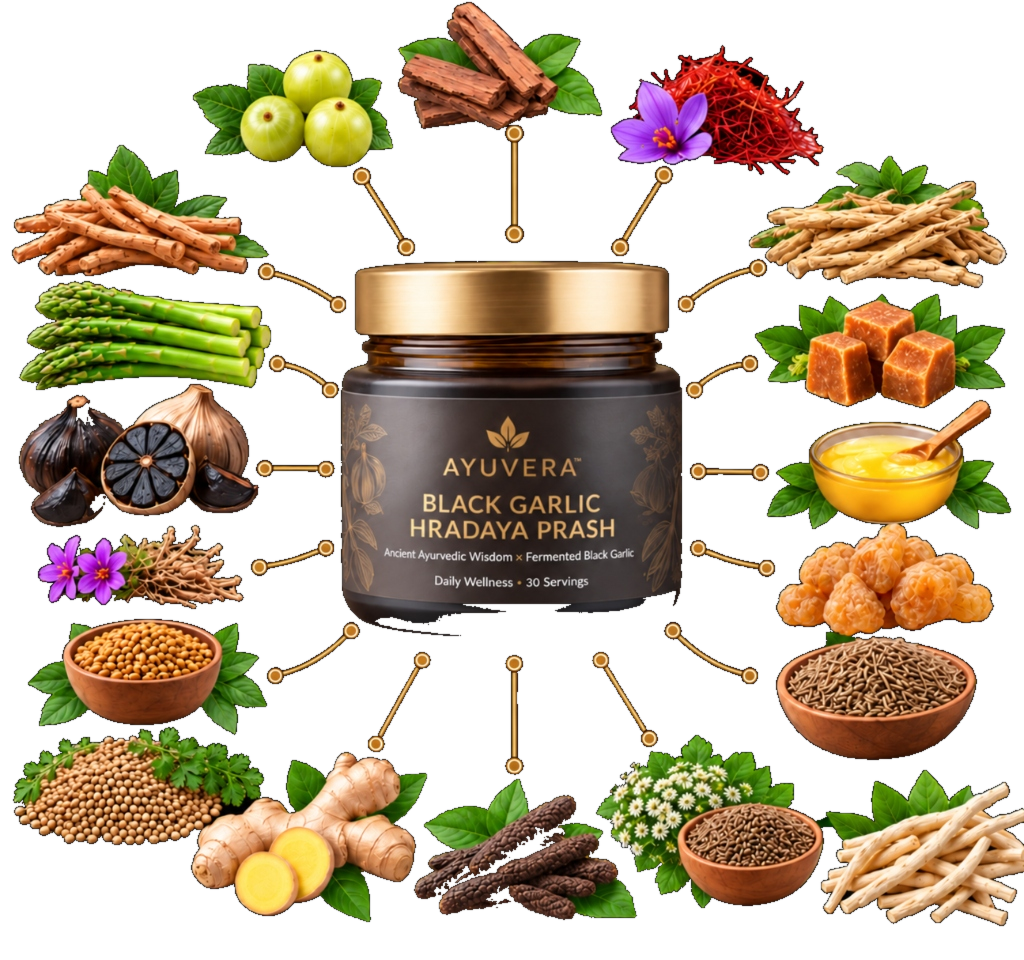
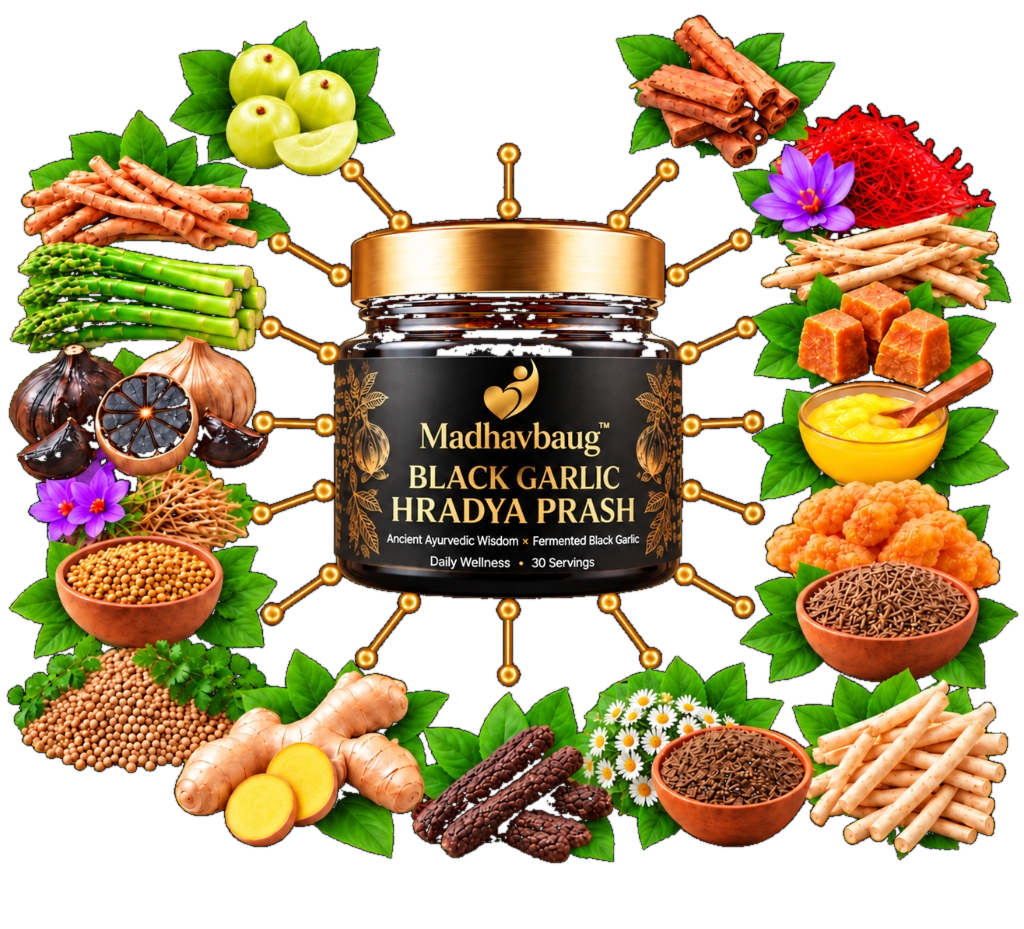
added

diff --git a/index.html b/index.html
@@ -3,8 +3,8 @@
 <head>
   <meta charset="UTF-8">
   <meta name="viewport" content="width=device-width, initial-scale=1.0">
-  <title>Ayuvera Hradaya Prash — Ayurvedic Heart Care & Natural Cholesterol Support</title>
-  <meta name="description" content="Ayuvera Hradaya Prash: दिल की मजबूती, कोलेस्ट्रॉल और ब्लड प्रेशर संतुलन के लिए 100% प्राकृतिक आयुर्वेदिक फॉर्मूलेशन। Fermented Black Garlic और अर्जुन छाल के साथ सम्पूर्ण Heart Care Rasayana।">
+  <title>Madhavbaug Hradaya Prash — Ayurvedic Heart Care & Natural Cholesterol Support</title>
+  <meta name="description" content="Madhavbaug Hradaya Prash: दिल की मजबूती, कोलेस्ट्रॉल और ब्लड प्रेशर संतुलन के लिए 100% प्राकृतिक आयुर्वेदिक फॉर्मूलेशन। Fermented Black Garlic और अर्जुन छाल के साथ सम्पूर्ण Heart Care Rasayana।">
   <link rel="stylesheet" href="assets/css/style.css">
 </head>
 <body>
@@ -27,8 +27,8 @@
   <!-- Navigation Bar -->
   <nav class="navbar" id="navbar">
     <div class="container nav-container">
-      <a href="#" class="brand-logo" aria-label="Ayuvera Heart Care">
-        <img src="assets/images/logo.png" alt="AYUVERA" class="brand-logo-img">
+      <a href="#" class="brand-logo" aria-label="Madhavbaug Heart Care">
+        <img src="assets/images/madhavbaug_logo.png" alt="MADHAVBAUG" class="brand-logo-img">
       </a>
 
       <ul class="nav-links">
@@ -53,13 +53,13 @@
         <div class="gallery-wrapper">
           <div class="gallery-thumbnails" id="galleryThumbs">
             <div class="thumb-item active" data-slide="0">
-              <img src="assets/images/hero_jar.jpg" alt="Ayuvera Hradaya Prash for Heart Care Front">
+              <img src="assets/images/madhavbaug_hero.jpg" alt="Madhavbaug Hradaya Prash for Heart Care Front">
             </div>
             <div class="thumb-item" data-slide="1">
-              <img src="assets/images/product_spoon_texture.jpg" alt="Ayuvera Hradaya Prash 100% Natural Ayurvedic Care Spoon Texture">
+              <img src="assets/images/madhavbaug_texture_spoon.jpg" alt="Madhavbaug Hradaya Prash 100% Natural Ayurvedic Care Spoon Texture">
             </div>
             <div class="thumb-item" data-slide="2">
-              <img src="assets/images/product_kitchen_table.jpg" alt="Ayuvera Hradaya Prash Jar with Amla & Black Garlic">
+              <img src="assets/images/madhavbaug_product_jar.jpg" alt="Madhavbaug Hradaya Prash Jar with Amla & Black Garlic">
             </div>
           </div>
 
@@ -69,13 +69,13 @@
             <div class="gallery-slider-viewport" id="galleryViewport">
               <div class="gallery-slider-track" id="galleryTrack">
                 <div class="gallery-slide active" data-slide="0">
-                  <img src="assets/images/hero_jar.jpg" alt="Ayuvera Hradaya Prash for Heart Care Front" loading="eager">
+                  <img src="assets/images/madhavbaug_hero.jpg" alt="Madhavbaug Hradaya Prash for Heart Care Front" loading="eager">
                 </div>
                 <div class="gallery-slide" data-slide="1">
-                  <img src="assets/images/product_spoon_texture.jpg" alt="Ayuvera Hradaya Prash 100% Natural Ayurvedic Care Spoon Texture" loading="eager">
+                  <img src="assets/images/madhavbaug_texture_spoon.jpg" alt="Madhavbaug Hradaya Prash 100% Natural Ayurvedic Care Spoon Texture" loading="eager">
                 </div>
                 <div class="gallery-slide" data-slide="2">
-                  <img src="assets/images/product_kitchen_table.jpg" alt="Ayuvera Hradaya Prash Jar with Amla & Black Garlic" loading="eager">
+                  <img src="assets/images/madhavbaug_product_jar.jpg" alt="Madhavbaug Hradaya Prash Jar with Amla & Black Garlic" loading="eager">
                 </div>
               </div>
             </div>
@@ -113,7 +113,7 @@
             <span class="product-servings-badge">30 दिन की खुराक</span>
           </div>
 
-          <h1 class="product-main-title">Ayuvera Hradaya Prash</h1>
+          <h1 class="product-main-title">Madhavbaug Hradaya Prash</h1>
           <p class="product-subheadline">Ayurvedic Cardiac Rasayana for Healthy Heart, Cholesterol & Blood Pressure Balance</p>
 
           <!-- Free 24 Carat Gold Spoon Offer Highlight -->
@@ -144,18 +144,18 @@
               <span style="color: var(--antique-gold); font-weight: 600;">30 दिन प्रति जार</span>
             </div>
             <div class="bundle-options-grid">
-              <div class="bundle-card active" data-price="1899" data-original="2499" data-discount="24% की बचत" data-title="1 जार (Ayuvera Hradaya Prash • 30 दिन की खुराक)">
+              <div class="bundle-card active" data-price="1899" data-original="2499" data-discount="24% की बचत" data-title="1 जार (Madhavbaug Hradaya Prash • 30 दिन की खुराक)">
                 <div class="bundle-title">Single Jar</div>
                 <div class="bundle-save">Heart Care Rasayana</div>
                 <div class="bundle-price">₹1,899</div>
               </div>
-              <div class="bundle-card" data-price="3499" data-original="4998" data-discount="30% की अतिरिक्त छूट" data-title="Duo Pack (Ayuvera Hradaya Prash • 60 दिन की खुराक)">
+              <div class="bundle-card" data-price="3499" data-original="4998" data-discount="30% की अतिरिक्त छूट" data-title="Duo Pack (Madhavbaug Hradaya Prash • 60 दिन की खुराक)">
                 <span class="badge-popular">सबसे लोकप्रिय</span>
                 <div class="bundle-title">Duo Pack (2 जार)</div>
                 <div class="bundle-save">पूर्ण हृदय सुरक्षा</div>
                 <div class="bundle-price">₹3,499</div>
               </div>
-              <div class="bundle-card" data-price="4899" data-original="7497" data-discount="35% की अतिरिक्त छूट" data-title="Family Pack (Ayuvera Hradaya Prash • 90 दिन की खुराक)">
+              <div class="bundle-card" data-price="4899" data-original="7497" data-discount="35% की अतिरिक्त छूट" data-title="Family Pack (Madhavbaug Hradaya Prash • 90 दिन की खुराक)">
                 <div class="bundle-title">Family Pack (3 जार)</div>
                 <div class="bundle-save">दीर्घायु हार्ट प्रोटेक्शन</div>
                 <div class="bundle-price">₹4,899</div>
@@ -222,9 +222,9 @@
   <!-- ==========================================================================
        FULL-WIDTH HERO BANNER — BLACK GARLIC, AMLA & HERBAL BLEND
        ========================================================================== -->
-  <section class="full-bleed-banner-section" aria-label="Ayuvera Hradaya Prash Ingredients Overview">
+  <section class="full-bleed-banner-section" aria-label="Madhavbaug Hradaya Prash Ingredients Overview">
     <div class="full-bleed-banner-wrap">
-      <img src="assets/images/black_garlic_banner.jpg" alt="Ayuvera Hradaya Prash - Fermented Black Garlic, Arjuna, Amla & Herbal Blend" class="full-bleed-banner-img" loading="lazy">
+      <img src="assets/images/madhavbaug_banner_blend.png" alt="Madhavbaug Hradaya Prash - Fermented Black Garlic, Arjuna, Amla & Herbal Blend" class="full-bleed-banner-img" loading="lazy">
     </div>
   </section>
 
@@ -243,7 +243,7 @@
 
       <div class="editorial-story-card">
         <div class="editorial-transformation-img">
-          <img src="assets/images/black_garlic_pure.jpg" alt="Ayuvera Fermented Black Garlic for Heart Health" loading="lazy">
+          <img src="assets/images/black_garlic_pure.jpg" alt="Madhavbaug Fermented Black Garlic for Heart Health" loading="lazy">
         </div>
 
         <div class="garlic-benefits-grid">
@@ -324,7 +324,7 @@
         <div class="eyebrow">सत्यापित ग्राहक अनुभव</div>
         <h2 class="section-title">Real Customer Real Reviews</h2>
         <p class="section-subtitle">
-          Ayuvera Hradaya Prash इस्तेमाल करने वाले ग्राहकों के वास्तविक WhatsApp चैट्स और अनुभव
+          Madhavbaug Hradaya Prash इस्तेमाल करने वाले ग्राहकों के वास्तविक WhatsApp चैट्स और अनुभव
         </p>
       </div>
 
@@ -340,7 +340,7 @@
             </span>
           </div>
           <div class="proof-img-wrap">
-            <img src="assets/images/whatsapp_reviews.jpg" alt="Ayuvera Hradaya Prash Real Customer Real Reviews" class="proof-img" loading="lazy">
+            <img src="assets/images/whatsapp_reviews.jpg" alt="Madhavbaug Hradaya Prash Real Customer Real Reviews" class="proof-img" loading="lazy">
           </div>
         </div>
       </div>
@@ -387,7 +387,7 @@
 
         <!-- Center: Uploaded Visual with Transparent Background -->
         <div class="ingredient-center-img-wrap">
-          <img src="assets/images/selected_ingredients.png" alt="Ayuvera Hradaya Prash Formulation and Ingredients">
+          <img src="assets/images/selected_ingredients.png" alt="Madhavbaug Hradaya Prash Formulation and Ingredients">
         </div>
 
         <!-- Right Side: 4 Ingredients -->
@@ -421,9 +421,9 @@
   <!-- ==========================================================================
        FULL-WIDTH BANNER — HEART CARE CHYAWANPRASH (A Stronger Heart)
        ========================================================================== -->
-  <section class="full-bleed-banner-section" id="why-black-garlic" aria-label="Ayuvera Heart Care Chyawanprash Benefits Overview">
+  <section class="full-bleed-banner-section" id="why-black-garlic" aria-label="Madhavbaug Heart Care Chyawanprash Benefits Overview">
     <div class="full-bleed-banner-wrap">
-      <img src="assets/images/heart_care_banner.png" alt="A Stronger Heart for a Brighter Tomorrow - Ayuvera Heart Care Chyawanprash" class="full-bleed-banner-img" loading="lazy">
+      <img src="assets/images/madhavbaug_banner_immunity.png" alt="A Stronger Heart for a Brighter Tomorrow - Madhavbaug Heart Care Chyawanprash" class="full-bleed-banner-img" loading="lazy">
     </div>
   </section>
 
@@ -434,14 +434,14 @@
     <div class="container">
       <div class="texture-grid">
         <div class="texture-visual-wrap">
-          <img src="assets/images/product_spoon_texture.jpg" alt="Ayuvera Hradaya Prash for Heart Health Spoon Texture">
+          <img src="assets/images/product_spoon_texture.jpg" alt="Madhavbaug Hradaya Prash for Heart Health Spoon Texture">
         </div>
 
         <div>
           <div class="eyebrow">स्वाद, सुरक्षा और बनावट</div>
           <h2 class="section-title">Pure Cardiac Nutrition.<br><em>Gentle on Heart & Digestion.</em></h2>
           <p class="section-subtitle" style="margin-left: 0; text-align: left;">
-            तीखे कच्चे लहसुन की जलन या भारी काढ़ों के विपरीत, Ayuvera Hradaya Prash है मक्खन जैसा मुलायम, सौम्य और प्राकृतिक रूप से स्वादिष्ट — जो एसिडिटी किए बिना दिल को गहरा पोषण और नई ऊर्जा प्रदान करता है।
+            तीखे कच्चे लहसुन की जलन या भारी काढ़ों के विपरीत, Madhavbaug Hradaya Prash है मक्खन जैसा मुलायम, सौम्य और प्राकृतिक रूप से स्वादिष्ट — जो एसिडिटी किए बिना दिल को गहरा पोषण और नई ऊर्जा प्रदान करता है।
           </p>
 
           <div class="texture-features-list">
@@ -500,7 +500,7 @@
         <div class="eyebrow">दैनिक सेवन विधि व 24K स्वर्ण चम्मच अनुष्ठान</div>
         <h2 class="section-title">How to Use & 24K Gold Spoon Benefits</h2>
         <p class="section-subtitle">
-          जानिए Ayuvera Hradaya Prash के सेवन का सही तरीका और हर जार के साथ मुफ़्त मिलने वाली 24K गोल्ड चम्मच से खाने के विशेष आयुर्वेदिक हृदय-रक्षक लाभ
+          जानिए Madhavbaug Hradaya Prash के सेवन का सही तरीका और हर जार के साथ मुफ़्त मिलने वाली 24K गोल्ड चम्मच से खाने के विशेष आयुर्वेदिक हृदय-रक्षक लाभ
         </p>
       </div>
 
@@ -509,7 +509,7 @@
         <!-- Left Visual Box with Gold Spoon Highlight -->
         <div class="how-to-use-visual-col">
           <div class="how-to-use-img-card">
-            <img src="assets/images/gold_spoon_ritual.jpg" alt="Ayuvera Hradaya Prash with 24K Gold Spoon Ritual" class="how-to-use-img" loading="lazy">
+            <img src="assets/images/gold_spoon_ritual.jpg" alt="Madhavbaug Hradaya Prash with 24K Gold Spoon Ritual" class="how-to-use-img" loading="lazy">
             <div class="gold-spoon-floating-badge">
               <span class="gold-sparkle">✨</span>
               <div>
@@ -696,7 +696,7 @@
             </span>
           </div>
           <div class="proof-img-wrap">
-            <img src="assets/images/amazon_reviews.jpg" alt="Ayuvera Hradaya Prash Amazon Reviews" class="proof-img" loading="lazy">
+            <img src="assets/images/amazon_reviews.jpg" alt="Madhavbaug Hradaya Prash Amazon Reviews" class="proof-img" loading="lazy">
           </div>
         </div>
       </div>
@@ -712,7 +712,7 @@
       <div class="faq-consultation-card text-center">
         <!-- Brand Logo -->
         <div class="faq-logo-wrap">
-          <img src="assets/images/logo.png" alt="AYUVERA" class="faq-brand-logo">
+          <img src="assets/images/madhavbaug_logo.png" alt="MADHAVBAUG" class="faq-brand-logo">
         </div>
 
         <div class="eyebrow" style="margin-bottom: 8px;">निःशुल्क विशेषज्ञ हृदय स्वास्थ्य परामर्श</div>
@@ -723,7 +723,7 @@
 
         <!-- Description -->
         <p class="faq-consultation-desc">
-          कोलेस्ट्रॉल नियंत्रण, ब्लड प्रेशर संतुलन, कार्डियक डाइट और <strong>Ayuvera Hradaya Prash</strong> के नियमित सेवन से जुड़े किसी भी सवाल के लिए हमारे वरिष्ठ आयुर्वेदिक डॉक्टरों से सीधे मुफ्त परामर्श पाएं।
+          कोलेस्ट्रॉल नियंत्रण, ब्लड प्रेशर संतुलन, कार्डियक डाइट और <strong>Madhavbaug Hradaya Prash</strong> के नियमित सेवन से जुड़े किसी भी सवाल के लिए हमारे वरिष्ठ आयुर्वेदिक डॉक्टरों से सीधे मुफ्त परामर्श पाएं।
         </p>
 
         <!-- Trust Badges -->
@@ -758,14 +758,14 @@
         <div class="final-cta-grid">
           
           <div class="final-cta-img-wrap">
-            <img src="assets/images/hero_jar.jpg" alt="Ayuvera Hradaya Prash for Heart Care">
+            <img src="assets/images/madhavbaug_hero.jpg" alt="Madhavbaug Hradaya Prash for Heart Care">
           </div>
 
           <div>
             <div class="eyebrow" style="margin-bottom: 8px;">स्वस्थ व मजबूत दिल की नई शुरुआत</div>
             <h2 class="section-title" style="font-size: 2.3rem; margin-bottom: 8px;">Protect & Strengthen Your Heart<br><em>With Ancient Ayurvedic Rasayana</em></h2>
             <div style="font-size: 1.15rem; font-family: var(--font-serif); font-style: italic; color: var(--antique-gold); margin-bottom: 6px;">
-              Ayuvera Hradaya Prash
+              Madhavbaug Hradaya Prash
             </div>
             <div style="font-size: 0.95rem; font-weight: 600; color: var(--herbal-green-dark); margin-bottom: 4px;">
               Pure Black Garlic & Arjuna Formulation • Cholesterol & BP Support
@@ -808,22 +808,22 @@
         
         <div class="footer-col">
           <div class="brand-logo" style="margin-bottom: 16px;">
-            <img src="assets/images/logo.png" alt="AYUVERA" class="brand-logo-img" style="height: 52px;">
+            <img src="assets/images/madhavbaug_logo.png" alt="MADHAVBAUG" class="brand-logo-img" style="height: 52px;">
           </div>
           <p style="font-size: 0.88rem; line-height: 1.6; margin-bottom: 16px;">
             आयुर्वेद की प्राचीन हृदय रसायन परंपरा और आधुनिक फर्मेंटेशन विज्ञान के संगम से मजबूत दिल, संतुलित कोलेस्ट्रॉल और दीर्घायु जीवन पहुंचाना हमारा संकल्प है।
           </p>
           <div style="font-size: 0.82rem; color: var(--text-muted);">
-            📍 Ayuvera Heart Care Labs • दिल्ली एवं बेंगलुरु, भारत
+            📍 Madhavbaug Heart Care Labs • दिल्ली एवं बेंगलुरु, भारत
           </div>
         </div>
 
         <div class="footer-col">
-          <h4>Ayuvera Heart Care क्लब</h4>
+          <h4>Madhavbaug Heart Care क्लब</h4>
           <p style="font-size: 0.86rem; margin-bottom: 14px; line-height: 1.55;">
             हृदय स्वास्थ्य डाइट चार्ट, योग-प्राणायाम और विशेष आयुर्वेदिक सुझाव सीधे अपने ईमेल पर पाएं।
           </p>
-          <form class="newsletter-form" onsubmit="event.preventDefault(); alert('Ayuvera Heart Care क्लब में जुड़ने के लिए धन्यवाद!');">
+          <form class="newsletter-form" onsubmit="event.preventDefault(); alert('Madhavbaug Heart Care क्लब में जुड़ने के लिए धन्यवाद!');">
             <input type="email" class="newsletter-input" placeholder="अपना ईमेल दर्ज करें" required>
             <button class="btn btn-primary" style="padding: 10px 18px; font-size: 0.82rem;">जुड़ें</button>
           </form>
@@ -833,7 +833,7 @@
 
       <div class="footer-bottom" style="justify-content: center; text-align: center;">
         <div>
-          © 2026 Ayuvera Wellness Pvt Ltd. All rights reserved. यह उत्पाद आहार पूरक है और स्वस्थ जीवनशैली व संतुलित खान-पान के साथ सर्वोत्तम परिणाम देता है।
+          © 2026 Madhavbaug Wellness Pvt Ltd. All rights reserved. यह उत्पाद आहार पूरक है और स्वस्थ जीवनशैली व संतुलित खान-पान के साथ सर्वोत्तम परिणाम देता है।
         </div>
       </div>
     </div>
@@ -844,9 +844,9 @@
        ========================================================================== -->
   <div class="sticky-mobile-bar" id="stickyMobileBar">
     <div class="sticky-product-info">
-      <img src="assets/images/hero_jar.jpg" class="sticky-thumb" alt="Jar Thumbnail">
+      <img src="assets/images/madhavbaug_hero.jpg" class="sticky-thumb" alt="Jar Thumbnail">
       <div class="sticky-text-wrap">
-        <div class="sticky-title">Ayuvera Hradaya Prash</div>
+        <div class="sticky-title">Madhavbaug Hradaya Prash</div>
         <div class="sticky-price">₹1,899 <span class="sticky-strike">₹2,499</span></div>
       </div>
     </div>

diff --git a/assets/js/main.js b/assets/js/main.js
@@ -1,5 +1,5 @@
 /**
- * Ayuvera - Black Garlic Hradaya Prash Landing Page Logic
+ * Madhavbaug - Black Garlic Hradaya Prash Landing Page Logic
  */
 
 document.addEventListener('DOMContentLoaded', () => {
@@ -165,7 +165,7 @@ document.addEventListener('DOMContentLoaded', () => {
 
   // 2. Pricing & Bundle Selector State
   let currentBundle = {
-    title: '1 जार (Ayuvera Hradaya Prash • 30 दिन की खुराक)',
+    title: '1 जार (Madhavbaug Hradaya Prash • 30 दिन की खुराक)',
     price: 1899,
     originalPrice: 2499,
     savings: '24% की बचत'
@@ -260,7 +260,7 @@ document.addEventListener('DOMContentLoaded', () => {
             <path d="M20.84 4.61a5.5 5.5 0 0 0-7.78 0L12 5.67l-1.06-1.06a5.5 5.5 0 0 0-7.78 7.78l1.06 1.06L12 21.23l7.78-7.78 1.06-1.06a5.5 5.5 0 0 0 0-7.78z"></path>
           </svg>
           <p style="font-weight: 700; font-size: 1.1rem; color: var(--herbal-green-dark);">आपकी Heart Care कार्ट खाली है</p>
-          <p style="font-size: 0.9rem; margin-top: 6px;">अपने दिल की सेहत, कोलेस्ट्रॉल और ब्लड प्रेशर संतुलन के लिए Ayuvera Hradaya Prash जोड़ें।</p>
+          <p style="font-size: 0.9rem; margin-top: 6px;">अपने दिल की सेहत, कोलेस्ट्रॉल और ब्लड प्रेशर संतुलन के लिए Madhavbaug Hradaya Prash जोड़ें।</p>
         </div>
       `;
       if (cartSubtotal) cartSubtotal.textContent = '₹0';
@@ -315,10 +315,10 @@ document.addEventListener('DOMContentLoaded', () => {
         existing.qty += quantity;
       } else {
         cartItems.push({
-          title: `Ayuvera Hradaya Prash (${currentBundle.title})`,
+          title: `Madhavbaug Hradaya Prash (${currentBundle.title})`,
           price: currentBundle.price,
           qty: quantity,
-          img: 'assets/images/hero_jar.jpg'
+          img: 'assets/images/madhavbaug_hero.jpg'
         });
       }
       updateCartUI();
@@ -355,7 +355,7 @@ document.addEventListener('DOMContentLoaded', () => {
 
   // Local 24-Hour Cooldown Check Helpers
   function getPhoneStorageKey(phone) {
-    return `ayuvera_lead_${phone}`;
+    return `madhavbaug_lead_${phone}`;
   }
 
   function isPhoneSubmittedWithin24Hours(phone) {
@@ -520,9 +520,9 @@ document.addEventListener('DOMContentLoaded', () => {
         name: name,
         contact: cleanPhone,
         city: city,
-        bundle: currentBundle ? currentBundle.title : 'Ayuvera Hradaya Prash (1 Jar)',
+        bundle: currentBundle ? currentBundle.title : 'Madhavbaug Hradaya Prash (1 Jar)',
         price: currentBundle ? `₹${currentBundle.price.toLocaleString('en-IN')}` : '₹1,499',
-        source: 'Ayuvera Heart Official Website'
+        source: 'Madhavbaug Heart Official Website'
       };
 
       try {

diff --git a/google_apps_script.js b/google_apps_script.js
@@ -52,7 +52,7 @@ function handleLeadSubmission(e) {
     var rawContact = (data.contact || data.phone || "").toString();
     var cleanContact = rawContact.replace(/\D/g, "").slice(-10);
     var city = (data.city || "-").toString().trim();
-    var bundle = (data.bundle || "Ayuvera Hradaya Prash").toString().trim();
+    var bundle = (data.bundle || "Madhavbaug Hradaya Prash").toString().trim();
     var price = (data.price || "₹1,499").toString().trim();
     var source = (data.source || "Website Form").toString().trim();
 
